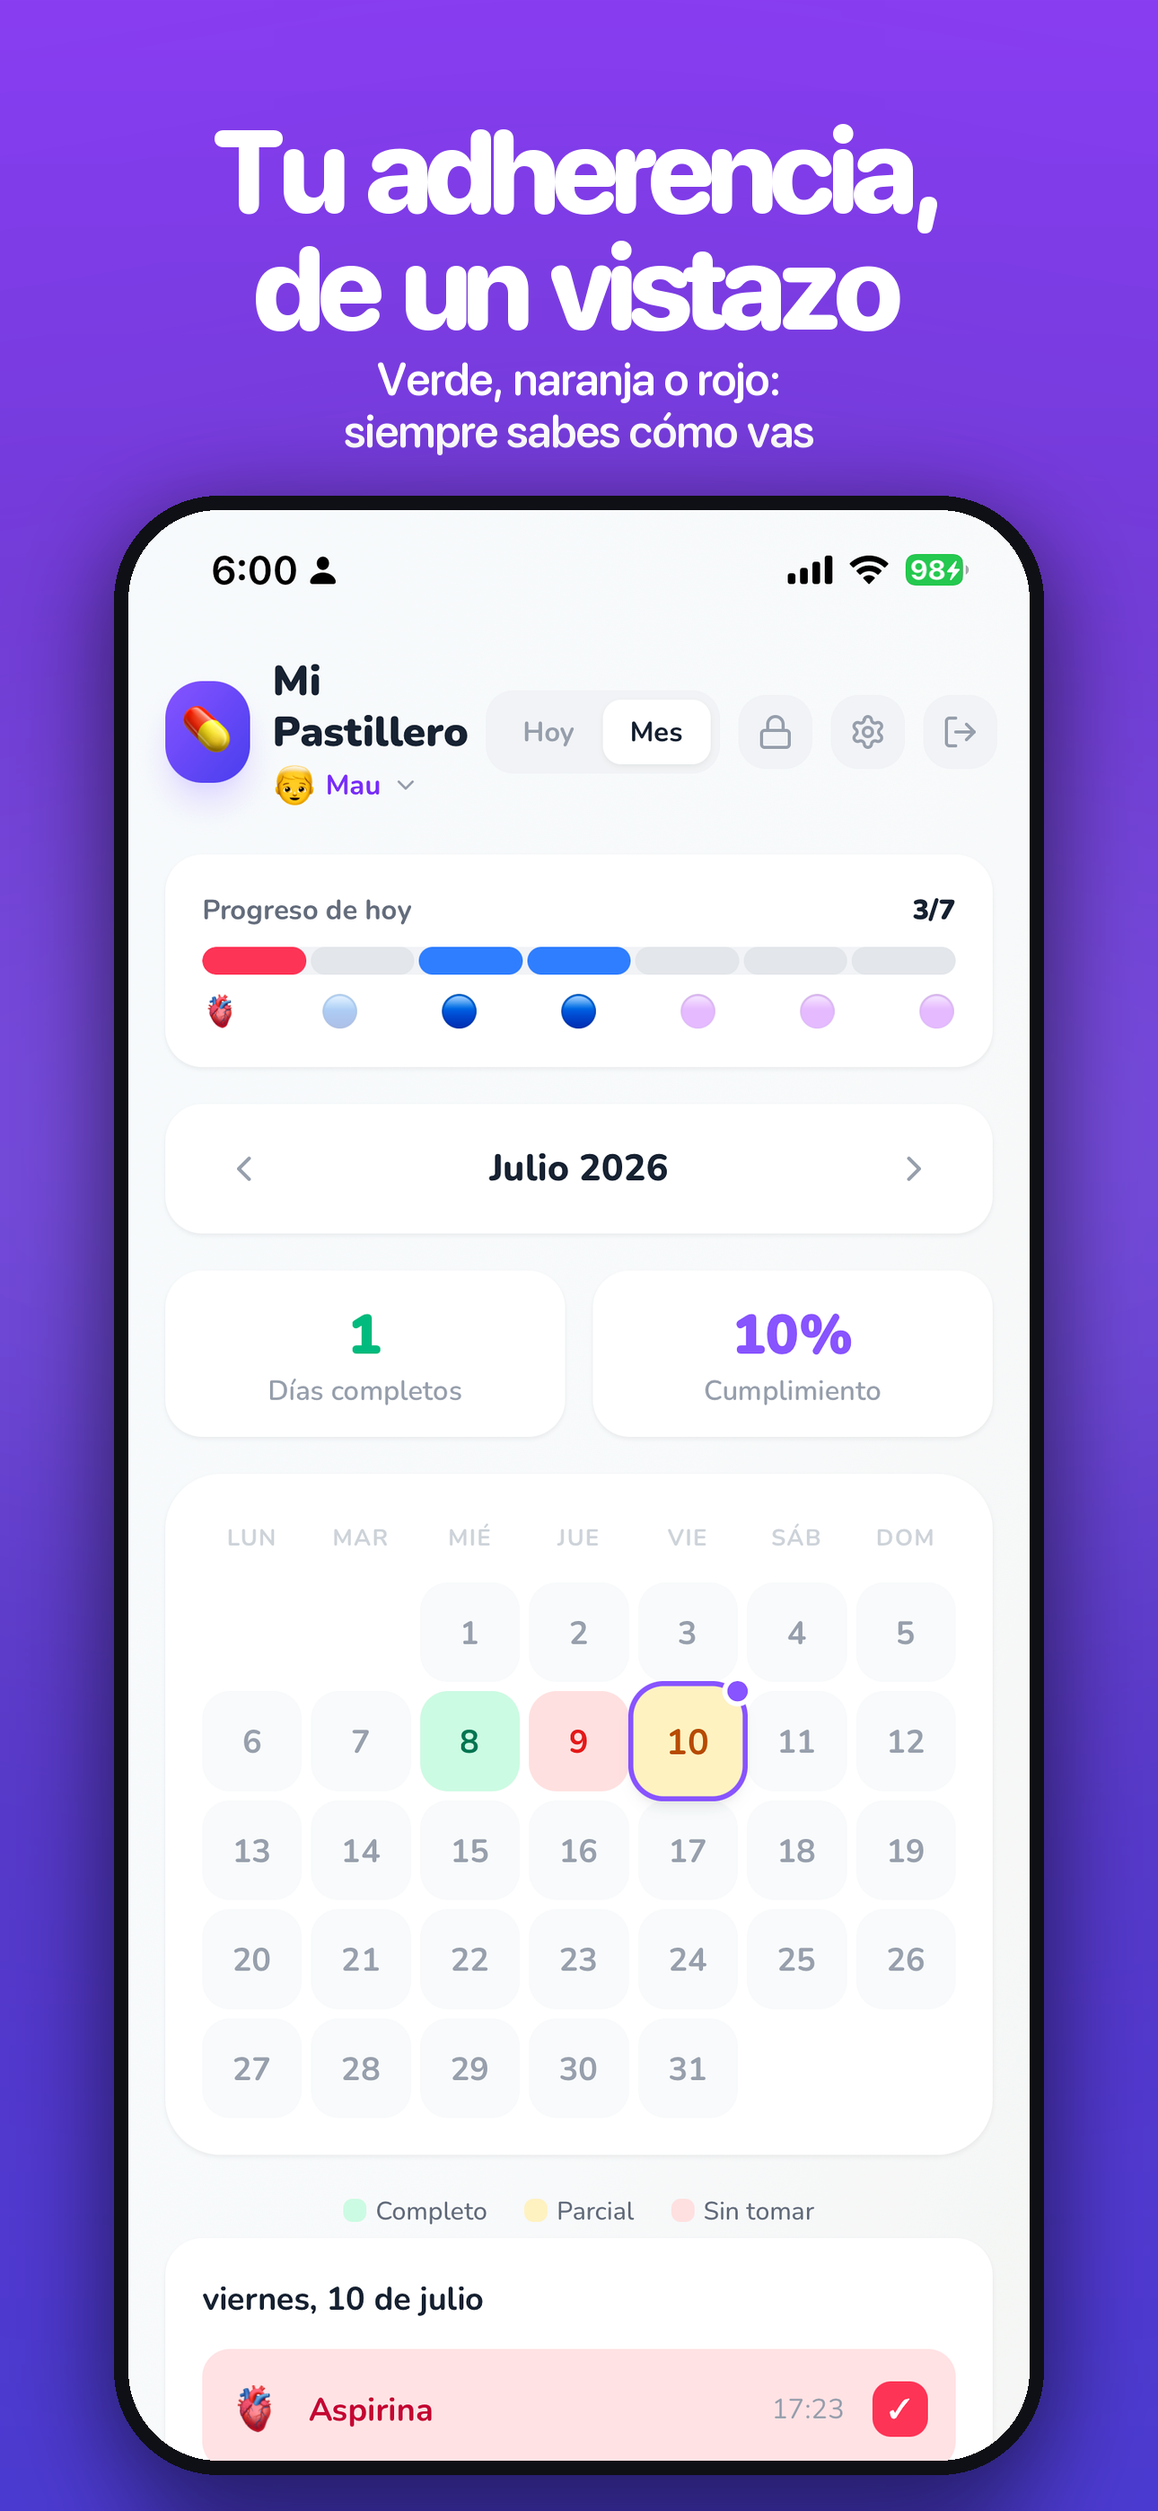
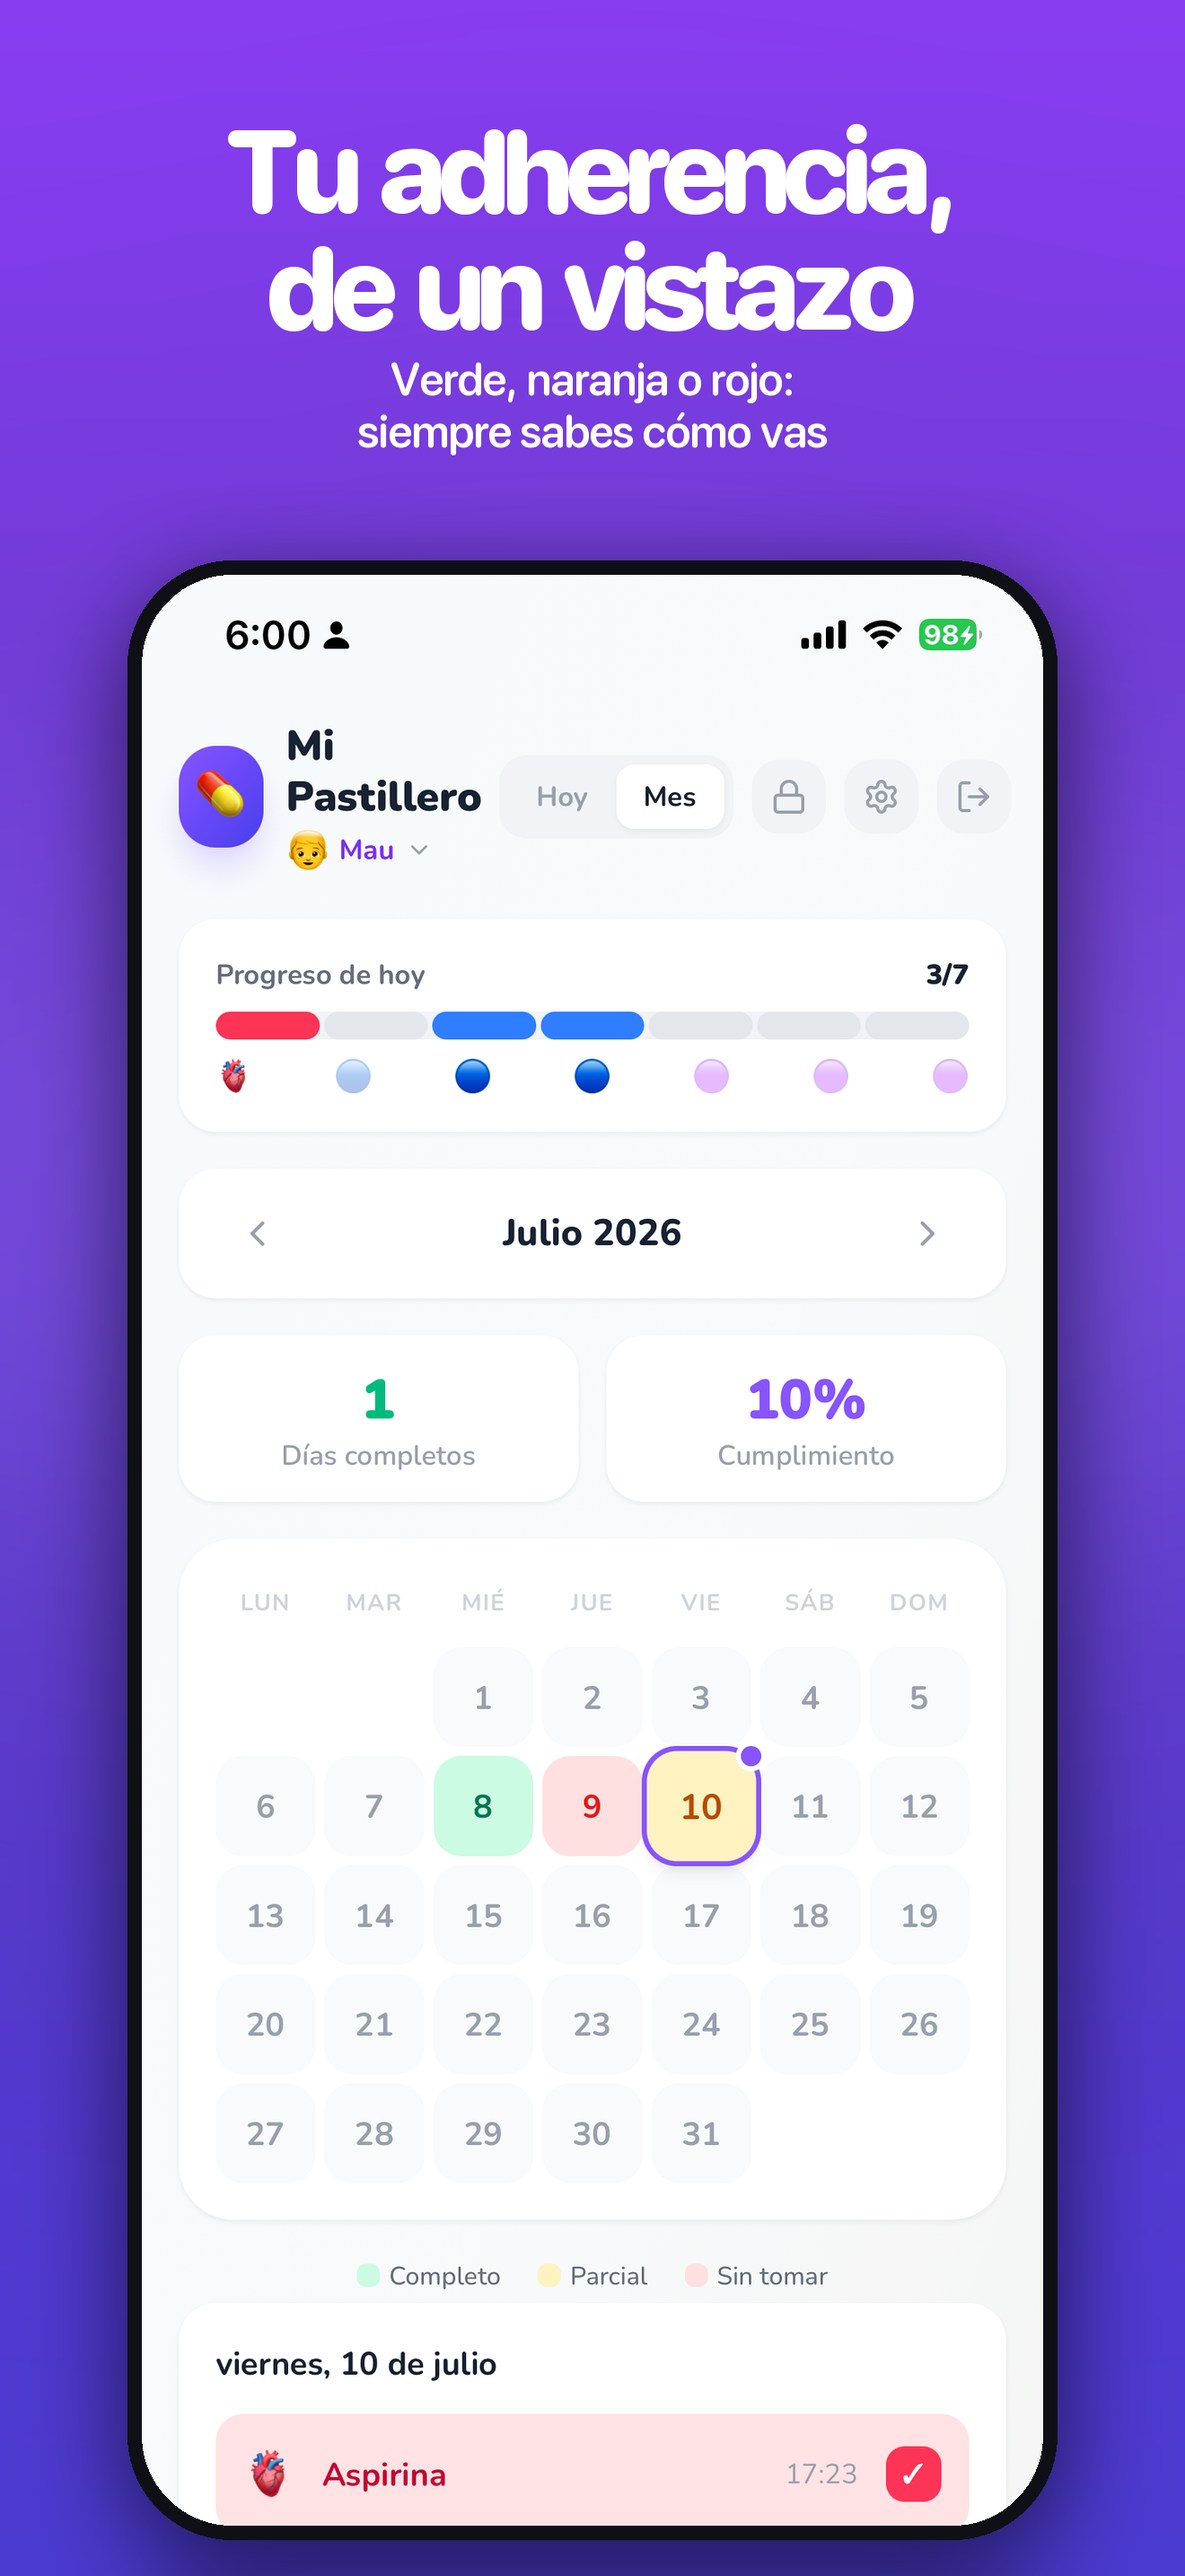
chore(appstore): export compliance + screenshots 6.9" para App Store Connect
- Info.plist: ITSAppUsesNonExemptEncryption=false (HTTPS estándar, exento)
- Screenshots regenerados a 1320×2868 (slot 6.9", único que acepta ASC)
- make_appstore.py: W,H a 1320×2868
- NEXT_STEPS: ficha App Store Connect completa (app 6790219240); pendiente Archive→TestFlight

diff --git a/screenshots/make_appstore.py b/screenshots/make_appstore.py
@@ -10,7 +10,7 @@ SRC = "/Users/jmontero/Proyectos Personales/mi-pastillero/screenshots/originales
 OUT = "/Users/jmontero/Proyectos Personales/mi-pastillero/screenshots/appstore"
 os.makedirs(OUT, exist_ok=True)
 
-W, H = 1290, 2796
+W, H = 1320, 2868
 ROUNDED = "/System/Library/Fonts/SFNSRounded.ttf"
 
 def font(size, weight):

diff --git a/NEXT_STEPS.md b/NEXT_STEPS.md
@@ -58,9 +58,17 @@ Estado a fecha de este archivo (última sesión con Claude: 2026-07-12).
    - Para actualizar: editar `legal/*.html`, copiarlas a la rama `gh-pages` y push. Antes de publicar, considerar dominio propio (`jimbera.com`).
    - Pegar ambas URLs en App Store Connect (Privacy Policy URL + Support URL).
 9. ~~**Eliminar cuenta in-app**~~ ✅ HECHO (2026-07-12) — requisito Apple 5.1.1(v). Botón "Eliminar cuenta" en `SettingsScreen` (App.jsx) con modal de confirmación → invoca la Edge Function **`delete-account`** (`supabase/functions/`, desplegada en dev) que valida el JWT y con el SERVICE ROLE borra `medicamentos`/`pastillas`/`pacientes` del usuario + el usuario de Auth, luego `signOut`. ⚠ Falta probar en device y **replicar la función en prod**.
-10. **Crear la app en App Store Connect** (aún NO existe). Valores: Nombre "Mi Pastillero", idioma Español (México), Bundle `com.mipastillero.app`, versión **1.0.0** / build 1, gratis. Categoría sugerida **Salud y forma física** (no "Medicina" — es organizador, no diagnóstico). Pegar Privacy Policy URL + Support URL (GitHub Pages). Rellenar **nutrition label** (Correo + Datos de salud, vinculados; sin rastreo/analítica/publicidad) y **clasificación por edad**. Export compliance: HTTPS estándar → exento (`ITSAppUsesNonExemptEncryption = NO` en Info.plist).
-11b. **⚠ Sign in with Apple (guía 4.8):** como el login ofrece **Google**, Apple probablemente exige ofrecer también **Sign in with Apple** (o quitar Google del login). **VERIFICAR — posible bloqueante de aprobación.**
-7. **TestFlight** — distribuir la app a beta testers antes de publicar (invitaciones por email/link). Requiere subir un build a App Store Connect. (Lo que el usuario "siempre olvida".)
+10. ~~**Crear la app en App Store Connect**~~ ✅ HECHO (2026-07-12). App creada: ficha **"Mi Pastillero App"** (el nombre exacto "Mi Pastillero" estaba tomado; en el iPhone se ve "Mi Pastillero" vía `CFBundleDisplayName`). **Apple ID 6790219240**, Bundle `com.mipastillero.app`, SKU `mipastillero-001`, idioma Español (México). Ficha COMPLETA:
+   - Screenshots regenerados a **1320×2868** (6.9", único slot que acepta ASC hoy — el 6.7"/1290×2796 ya no tiene slot; se cambió `W,H` en `make_appstore.py`). Subidos al slot 6.9"; el 6.5" los reutiliza solo. (Al subir, el orden se baraja → reordenar arrastrando.)
+   - Metadata: subtítulo "Recordatorios de medicamentos", descripción, keywords, promo text, Support URL, Copyright.
+   - Categoría **Health & Fitness**; Content Rights sin terceros.
+   - **Age Rating = 4+** (Medical/Treatment Info = None, Health/Wellness Topics = No; override Not Applicable).
+   - **App Privacy PUBLICADO:** Email Address + Health, ambos App Functionality + Linked to identity + NOT tracking. Privacy Policy URL puesta.
+   - **Pricing = Free** (base México MXN) + **Availability = 175 países** (Available on App Release). Mac/Vision Pro desmarcados. Distribución Public.
+   - **Export compliance:** `ITSAppUsesNonExemptEncryption = false` agregado a `ios/App/App/Info.plist`.
+11b. **⚠ Sign in with Apple (guía 4.8):** como el login ofrece **Google**, Apple probablemente exige ofrecer también **Sign in with Apple** (o quitar Google del login). **Posible bloqueante de aprobación.** Decisión: **diferir al build final de tienda** (TestFlight no lo exige). Nota: el plugin `@capgo/capacitor-social-login` ya reporta **Apple: enabled** → medio camino andado.
+    **Suscripciones (modelo de negocio nuevo, 2026-07-12):** el usuario quiere app gratis con **prueba de 7 días** y luego suscripción **semanal 19 / mensual 59 / anual 599 MXN**. Implica: contrato "Paid Applications" (datos bancarios/fiscales en ASC → Business), integración StoreKit/RevenueCat + paywall + gating + "Restaurar compras", y config de Subscriptions en ASC (grupo + 3 productos + Introductory Offer de 7 días). Se probará en TestFlight (Sandbox, sin cobro real). Feature aparte, para el **build final de tienda** junto con Sign in with Apple.
+7. **TestFlight** — EN CURSO (2026-07-12). Plan: subir el build **actual** (sin SiwA ni suscripciones) para probar gratis; SiwA + suscripciones van al build final de tienda. Estado: `npm run build && npx cap sync ios` HECHOS; Xcode abierto. **Falta:** en Xcode elegir destino "Any iOS Device (arm64)", verificar Signing (Team 44K4VJQ3Z4, automatic), **Product → Archive**, y subir vía Organizer a App Store Connect. Luego aparece en pestaña TestFlight. (Lo que el usuario "siempre olvida".)
 
 ### Google OAuth
 8. ~~**Login con Google nativo (sin mostrar URL de Supabase)**~~ ✅ HECHO y **validado en iOS** (2026-07-06).
